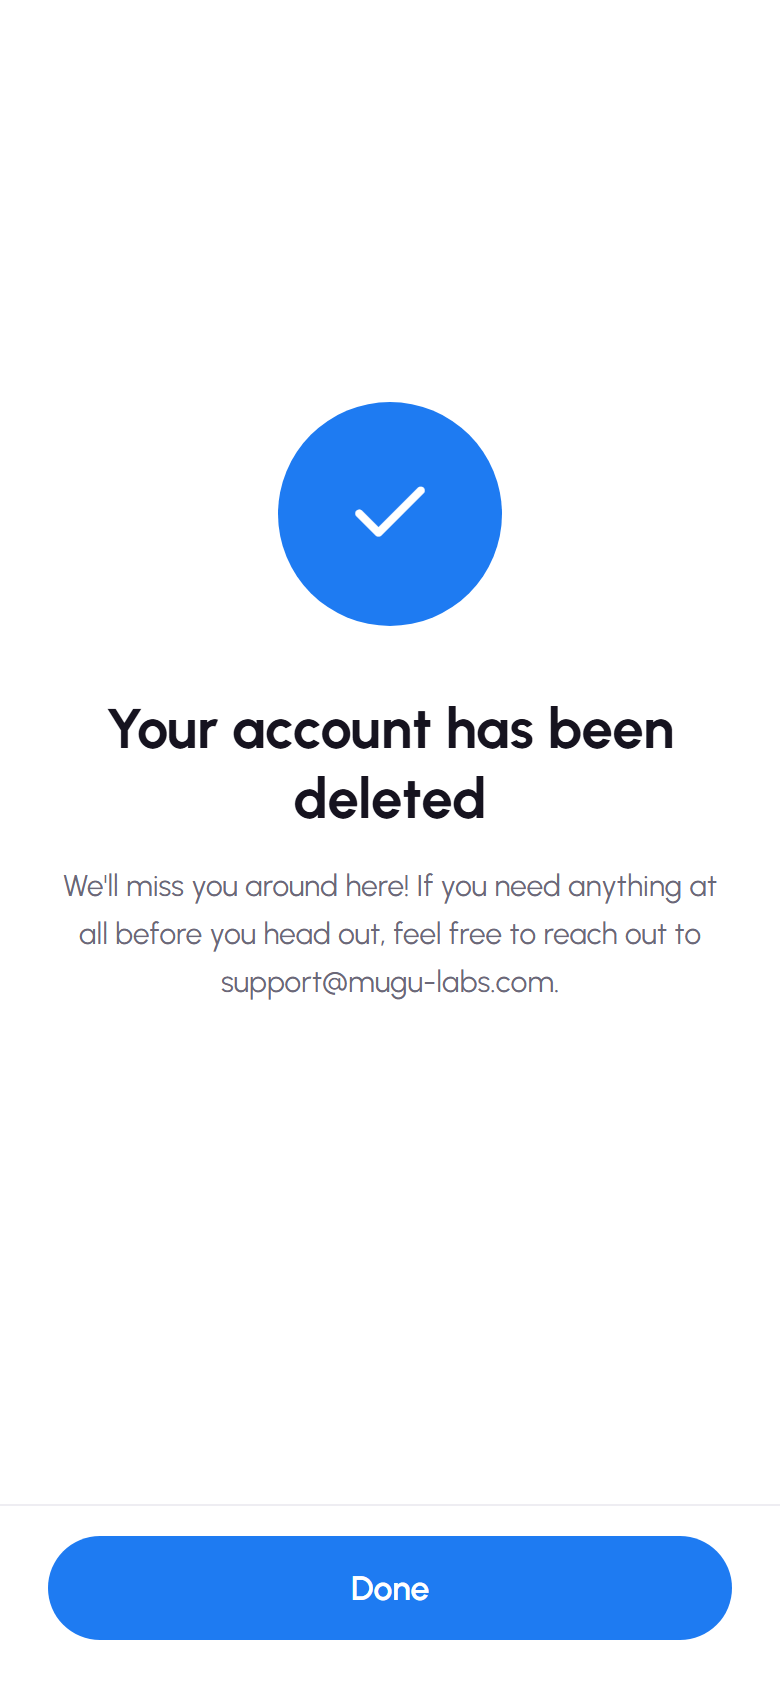
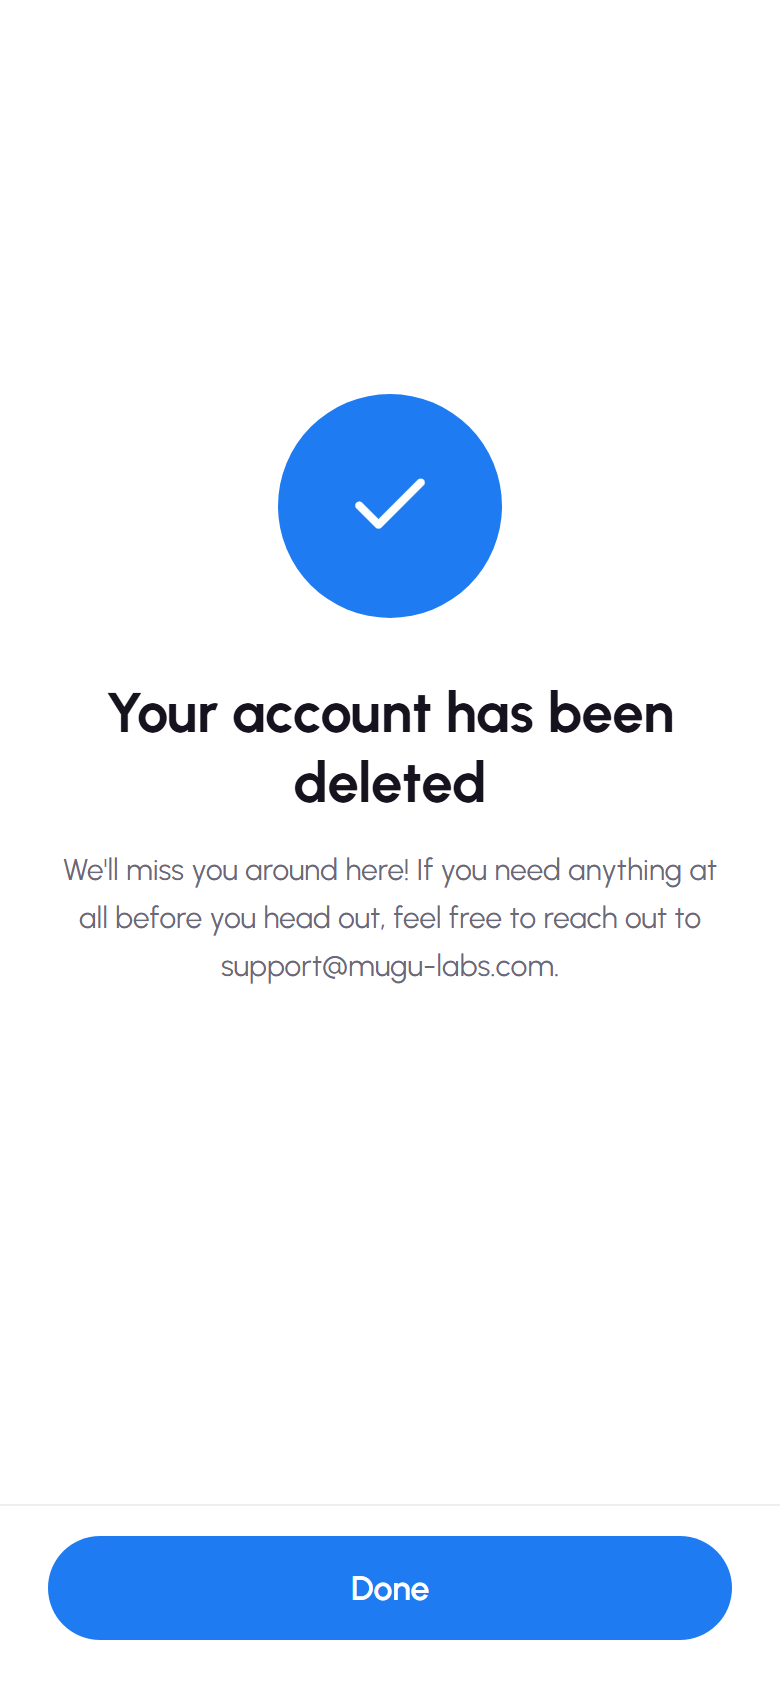
fix: cookie deletions only from the site's own origin as JSON; Contents at the top
- /api/account/delete refuses the cookie path (403) unless Origin matches
  the request's origin and Content-Type is application/json; unit tests
  and two end-to-end checks
- /privacy and /terms show the Contents line under the date (Dennis)
- Re-captured evidence (05 now includes the 4 pt nudge)

Claude-Session: https://claude.ai/code/session_01UxJdr58jfqDuGELFUCdeHG

diff --git a/apps/web/src/lib/account-deletion.test.ts b/apps/web/src/lib/account-deletion.test.ts
@@ -5,6 +5,7 @@ import {
   createRateLimit,
   deleteAccount,
   deleteAccountBody,
+  isSameOriginJson,
   listRecursive,
   type DeletionSteps,
 } from "./account-deletion";
@@ -155,5 +156,56 @@ describe("bearerToken", () => {
     expect(bearerToken(new Headers({ authorization: "Bearer abc.def" }))).toBe("abc.def");
     expect(bearerToken(new Headers({ authorization: "Basic abc" }))).toBeNull();
     expect(bearerToken(new Headers())).toBeNull();
+  });
+});
+
+describe("isSameOriginJson", () => {
+  const url = "https://bookflow.example/api/account/delete";
+  const headers = (h: Record<string, string>) => new Headers(h);
+
+  it("accepts JSON from the site's own origin", () => {
+    expect(
+      isSameOriginJson(
+        headers({ origin: "https://bookflow.example", "content-type": "application/json" }),
+        url,
+      ),
+    ).toBe(true);
+    expect(
+      isSameOriginJson(
+        headers({
+          origin: "https://bookflow.example",
+          "content-type": "application/json; charset=utf-8",
+        }),
+        url,
+      ),
+    ).toBe(true);
+  });
+
+  it("rejects another origin or a missing Origin", () => {
+    expect(
+      isSameOriginJson(
+        headers({ origin: "https://evil.example", "content-type": "application/json" }),
+        url,
+      ),
+    ).toBe(false);
+    expect(isSameOriginJson(headers({ "content-type": "application/json" }), url)).toBe(false);
+    expect(
+      isSameOriginJson(
+        headers({ origin: "http://bookflow.example", "content-type": "application/json" }),
+        url,
+      ),
+    ).toBe(false);
+  });
+
+  it("rejects form posts and plain text", () => {
+    for (const type of ["application/x-www-form-urlencoded", "text/plain", "multipart/form-data"]) {
+      expect(
+        isSameOriginJson(
+          headers({ origin: "https://bookflow.example", "content-type": type }),
+          url,
+        ),
+      ).toBe(false);
+    }
+    expect(isSameOriginJson(headers({ origin: "https://bookflow.example" }), url)).toBe(false);
   });
 });

diff --git a/apps/web/src/components/legal-document.tsx b/apps/web/src/components/legal-document.tsx
@@ -44,10 +44,25 @@ export function LegalDocument({ name }: { name: "privacy.md" | "terms.md" }) {
                 </h1>
               );
             case "updated":
+              // The contents line sits at the top, under the date (Dennis, 2026-10-05).
               return (
-                <p key={i} className="text-[14px] text-muted">
-                  {block.text}
-                </p>
+                <div key={i}>
+                  <p className="text-[14px] text-muted">{block.text}</p>
+                  <nav
+                    aria-label="Contents"
+                    className="mt-[10px] text-[14px] leading-[17px] text-muted"
+                  >
+                    Contents
+                    {sections.map((s) => (
+                      <span key={s.id}>
+                        {" · "}
+                        <a href={`#${s.id}`} className="hover:underline">
+                          {s.text}
+                        </a>
+                      </span>
+                    ))}
+                  </nav>
+                </div>
               );
             case "h2":
               return (
@@ -88,17 +103,6 @@ export function LegalDocument({ name }: { name: "privacy.md" | "terms.md" }) {
               );
           }
         })}
-        <nav aria-label="Contents" className="mt-6 text-[14px] leading-[17px] text-muted">
-          Contents
-          {sections.map((s) => (
-            <span key={s.id}>
-              {" · "}
-              <a href={`#${s.id}`} className="hover:underline">
-                {s.text}
-              </a>
-            </span>
-          ))}
-        </nav>
       </main>
     </>
   );

diff --git a/apps/web/src/lib/account-deletion.ts b/apps/web/src/lib/account-deletion.ts
@@ -108,3 +108,13 @@ export function bearerToken(headers: Headers): string | null {
   const match = /^Bearer\s+(\S+)$/i.exec(headers.get("authorization")?.trim() ?? "");
   return match?.[1] ?? null;
 }
+
+/**
+ * The web page's cookie session is only accepted from Bookflow's own pages, sending JSON: a form
+ * or script on another site can't trigger a deletion with the visitor's cookies.
+ */
+export function isSameOriginJson(headers: Headers, requestUrl: string): boolean {
+  const origin = headers.get("origin");
+  const mediaType = headers.get("content-type")?.split(";")[0]?.trim().toLowerCase();
+  return !!origin && origin === new URL(requestUrl).origin && mediaType === "application/json";
+}

diff --git a/apps/web/src/app/api/account/delete/route.ts b/apps/web/src/app/api/account/delete/route.ts
@@ -6,6 +6,7 @@ import { getEnv } from "../../../../env";
 import {
   MEDIA_BUCKET,
   bearerToken,
+  isSameOriginJson,
   createRateLimit,
   deleteAccount,
   deleteAccountBody,
@@ -43,6 +44,11 @@ export async function POST(request: Request) {
   }
 
   const token = bearerToken(request.headers);
+  if (!token && !isSameOriginJson(request.headers, request.url))
+    return json(403, {
+      code: "FORBIDDEN",
+      message: "Delete your account from Bookflow's own page.",
+    });
   const env = getEnv();
   const supabase = token
     ? createSupabaseClient<Database>(
